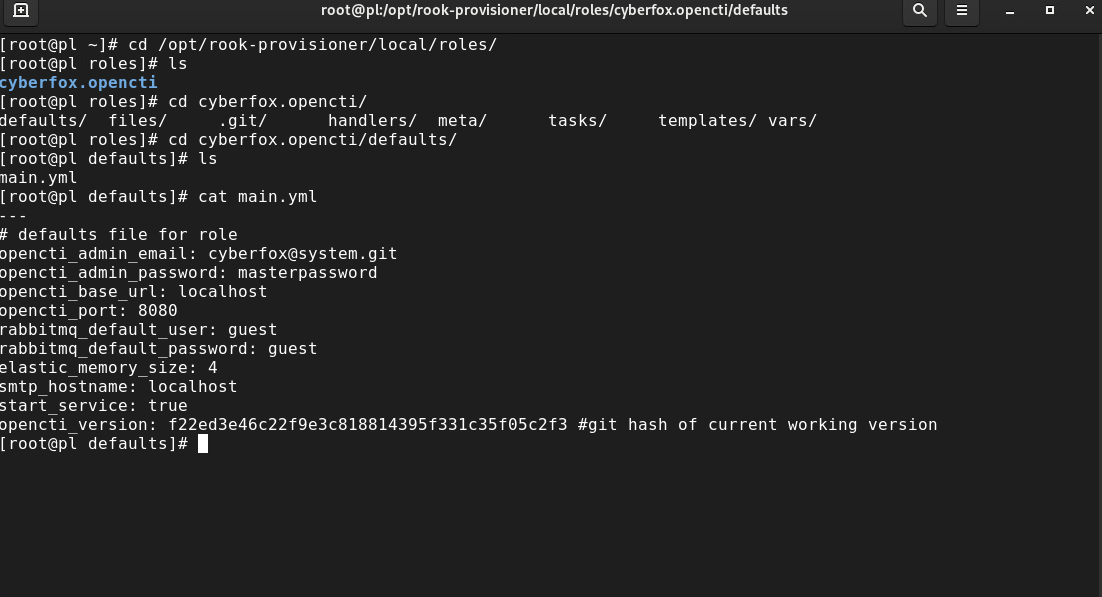
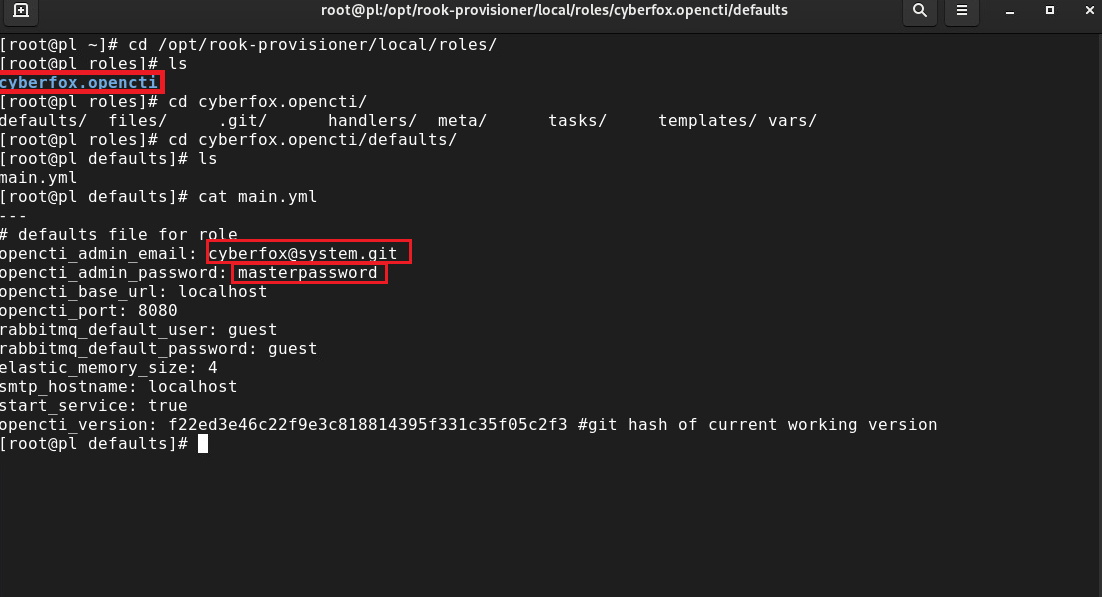
added module 6 refinement and walkthrough validation

Changed region(s): [[0.1851, 0.392, 0.3702, 0.4824], [0.0, 0.0905, 0.1543, 0.1809]]

diff --git a/Module6-README.md b/Module6-README.md
@@ -1,32 +1,34 @@
 # Module 6: Beyond Ansible and Git 
-# Turbo Rook Provisioning Engine Ansible Role Deployment
-### Accessing the Local Roles Folder
+##Turbo Rook Provisioning Engine Ansible Role Deployment
+## Accessing the Local Roles Folder
 
-On the Turbo Rook Provisioning Laptop:
+**On the Turbo Rook Provisioning Laptop:**
 
-1. Open a terminal.
+1. Open a terminal window
 2. Navigate to the local roles directory:
 
-   cd /opt/rook-provisioner/local/roles
+   ``cd /opt/rook-provisioner/local/roles``
 
-   Note: Local roles will override the roles used by Rook Engine by default. This is where we would add custom roles, however we have already added the `cyberfox.opencti` role to the Rook Engine.
+   ``Note: Local roles will override the roles used by Rook Engine by default. This is where we would add custom roles, however we have already added the `cyberfox.opencti` role to the Rook Engine.``
+
    **your Credentials are as follows in the image below**
 
    ![creds](http://cyberfox:8080/img/openCTI/creds.png)
 
 ### Adding your Role to the TURBO ROOK UI
 
-Now return to the web browser with Turbo Rook open
+Now return to the web browser with Turbo Rook open the web browser and navigate to the Turbo Rook UI
 
 Add "/Admin" to the end of the URL
+```htts://turborook/admin```
 
-   This opens Turbo Rook's Admin page
+   This opens Turbo Rook's Admin page, carefully follow the steps below to add your role to the Turbo Rook UI.
 
 ![Turbo Rook Admin Tab](http://cyberfox:8080/img/openCTI/2.%20TR%20admin%20tab.png)
 
 On the left sidebar, click on `Software` to open up a drop down menu.
 
-   Select `Roles`
+Select `Roles`
 
 ![Turbo Rook Admin Software Roles](http://cyberfox:8080/img/openCTI/3.%20TR%20admin%20software%20roles.png)
 
@@ -214,5 +216,17 @@ Whenyou are finished with the deployment you will be given a `Finished Deploymen
 go to the IP address and you will be greeted with the openCTI login screen
 ![loginscreen](http://cyberfox:8080/img/openCTI/loginscreen.png)
 
+Enter the credentials you created in the configuration settings and you will be greeted with the openCTI dashboard:
+```username: cyberfox@system.git```
+```password: masterpassword ```
+
 You have now successfully provisioned a device with your newly added role! 
-```
+Current state of the openCTI dashboard will show that there are no entities or relationships. this is because we have not yet added any data to the openCTI instance. additional connectors would need to be added to the openCTI instance to begin adding data to the dashboard. In our capstone we have demonstrated how to develop a role for the Automated provisioning of openCTI through the TurbRook Provisioning Engine. 
+
+I would like to thank you for taking the time to go through this capstone with us. I hope you have learned a lot and have enjoyed the experience. If this is a course that you would like to see repeated and refined or even adapted to another use case, please let CNMF leadership know. 
+
+In the Spirit of Continuous Improvement, and longenvity of the CNMF Mission, I will push this content to the Purple Forge GitLab for future use.
+```https://code.levelup.cce.af.mil/purpleforge/CNMF_Group/purpleforge```
+
+
+Thank you for your time and attention.
